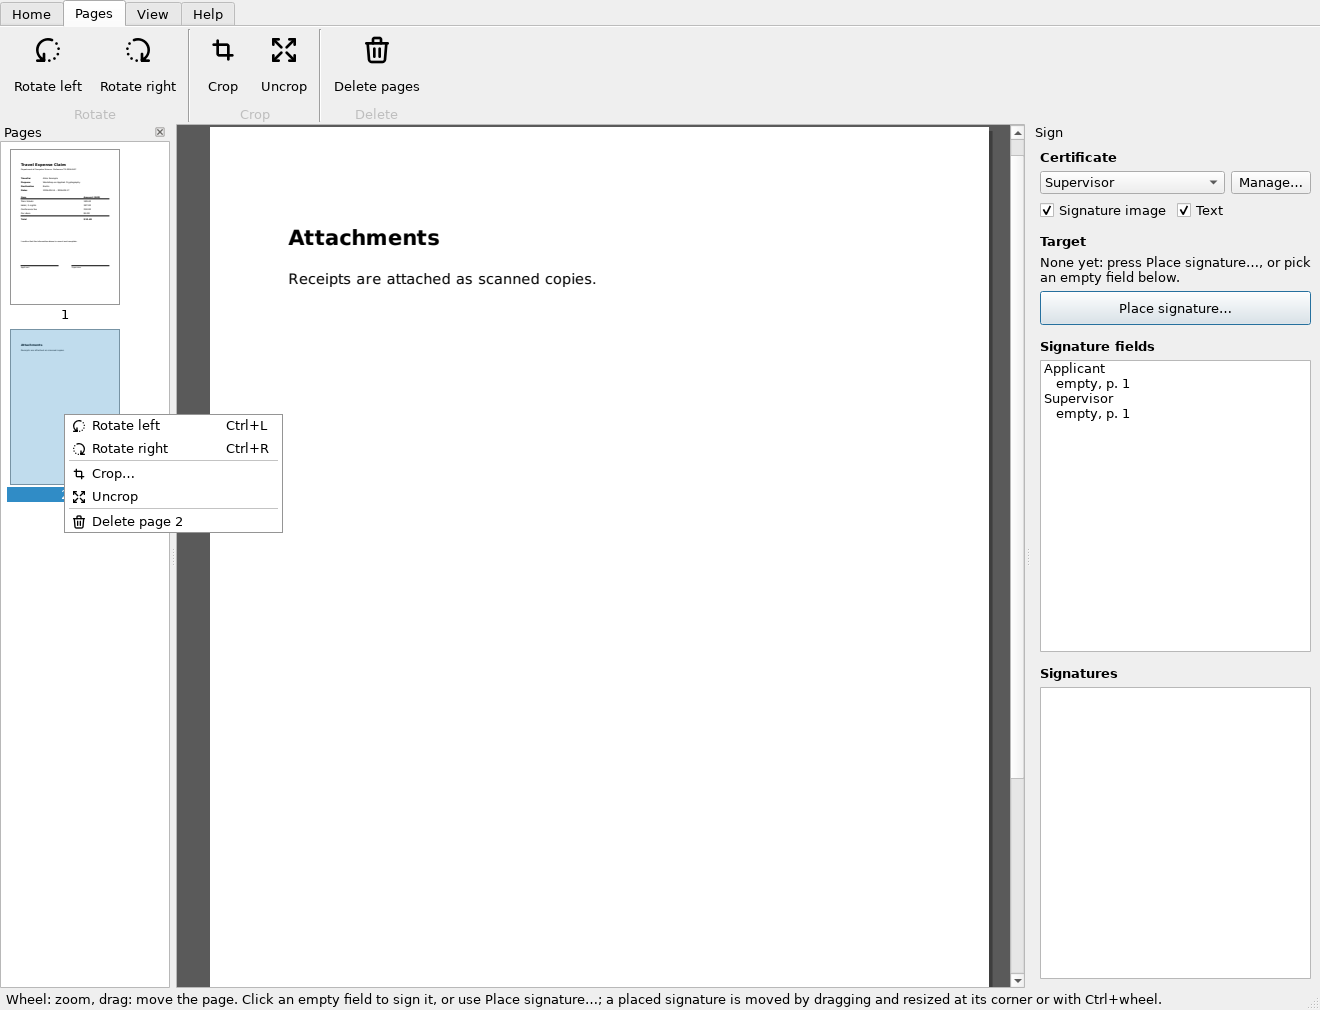
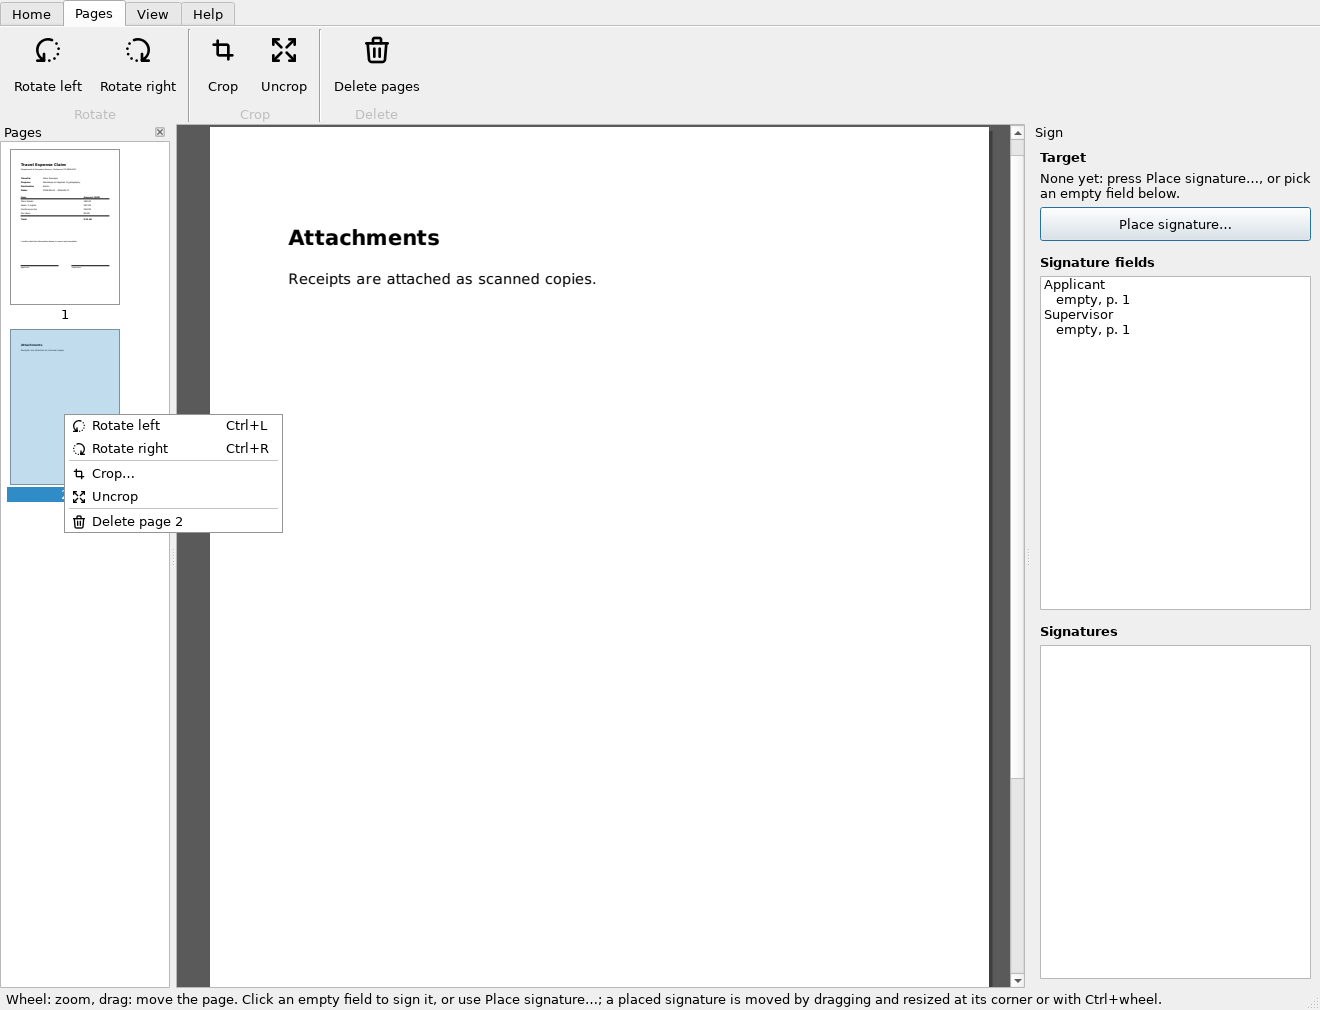
Ribbon: certificate choice and stamp options move from the Sign panel
The Home tab gets Certificate (the profile combo box and Certificates…)
and Stamp (Signature image, Text as toggle buttons) groups; the Sign
panel keeps the target, the Sign button and the lists. Small ribbon
buttons now really stack three per column.

Changed region(s): [[0.7765, 0.1535, 0.9939, 0.4297], [0.7765, 0.6139, 0.8386, 0.6752]]

diff --git a/src/pdfsigner/gui/app.py b/src/pdfsigner/gui/app.py
@@ -21,7 +21,6 @@ from PySide6.QtGui import (
 )
 from PySide6.QtWidgets import (
     QApplication,
-    QCheckBox,
     QComboBox,
     QDockWidget,
     QFileDialog,
@@ -150,7 +149,9 @@ class MainWindow(QMainWindow):
         """Every command the ribbon offers, as actions of the window, so their
         shortcuts work wherever the focus is."""
         def act(text, slot, shortcut=None, icon="", tip="", page=False):
-            a = QAction(text, self, triggered=slot)
+            a = QAction(text, self)
+            if slot is not None:
+                a.triggered.connect(slot)
             if shortcut:
                 a.setShortcut(QKeySequence(shortcut))
             if icon:
@@ -173,7 +174,21 @@ class MainWindow(QMainWindow):
         self.settings_act = act(_("Settings…"), self.settings_dialog, QKeySequence.Preferences,
                                 "settings")
         self.manage_act = act(_("Certificates…"), self.manage_certs, None, "certificate",
-                              _("Manage your certificates"))
+                              _("Manage your certificates (in the settings)"))
+        # what the stamp shows; the certificate is picked in the ribbon's combo box
+        self.cert_combo = QComboBox()
+        self.cert_combo.setToolTip(_("The certificate to sign with"))
+        self.cert_combo.setMinimumContentsLength(14)
+        self.cert_combo.setSizeAdjustPolicy(QComboBox.AdjustToMinimumContentsLengthWithIcon)
+        self.cert_combo.currentIndexChanged.connect(self._cert_changed)
+        self.image_check = act(_("Signature image"), None, None, "photo",
+                               _("Show the certificate's signature image in the stamp"))
+        self.text_check = act(_("Text"), None, None, "typography",
+                              _("Show the signer's name and the date in the stamp"))
+        for a in (self.image_check, self.text_check):
+            a.setCheckable(True)
+            a.setChecked(True)
+            a.toggled.connect(self._cert_changed)
 
         self.prev_act = act(_("Previous"), lambda: self.view.go_to(self.view.page - 1),
                             QKeySequence.MoveToPreviousPage, "chevron-left")
@@ -227,7 +242,12 @@ class MainWindow(QMainWindow):
         g = home.group(_("Sign"))
         g.add(self.sign_act)
         g.add(self.clear_act, large=False)
+        g = home.group(_("Certificate"))
+        g.add_widget(self.cert_combo)
         g.add(self.manage_act, large=False)
+        g = home.group(_("Stamp"))
+        g.add(self.image_check, large=False)
+        g.add(self.text_check, large=False)
         g = home.group(_("Options"))
         g.add(self.settings_act)
 
@@ -319,29 +339,6 @@ class MainWindow(QMainWindow):
         panel = QWidget()
         lay = QVBoxLayout(panel)
 
-        lay.addWidget(QLabel("<b>{}</b>".format(_("Certificate"))))
-        row = QHBoxLayout()
-        self.cert_combo = QComboBox()
-        self.cert_combo.currentIndexChanged.connect(self._cert_changed)
-        row.addWidget(self.cert_combo, 1)
-        manage = QPushButton(_("Manage…"))
-        manage.clicked.connect(self.manage_certs)
-        row.addWidget(manage)
-        lay.addLayout(row)
-
-        row = QHBoxLayout()
-        self.image_check = QCheckBox(_("Signature image"))
-        self.image_check.setChecked(True)
-        self.image_check.toggled.connect(self._cert_changed)
-        self.text_check = QCheckBox(_("Text"))
-        self.text_check.setChecked(True)
-        self.text_check.toggled.connect(self._cert_changed)
-        row.addWidget(self.image_check)
-        row.addWidget(self.text_check)
-        row.addStretch()
-        lay.addLayout(row)
-
-        lay.addSpacing(8)
         lay.addWidget(QLabel("<b>{}</b>".format(_("Target"))))
         self.target_label = QLabel()
         self.target_label.setWordWrap(True)

diff --git a/tests/test_gui.py b/tests/test_gui.py
@@ -1504,6 +1504,10 @@ def test_ribbon_tabs_and_about(window, monkeypatch):
     assert [rb.tabText(i) for i in range(rb.count())] == ["Home", "Pages", "View", "Help"]
     home = [b.defaultAction() for b in rb.tab_page(0).findChildren(QtWidgets.QToolButton)]
     assert window.open_act in home and window.sign_act in home
+    # everything the sign panel had as controls is in the ribbon now
+    assert window.image_check in home and window.text_check in home
+    assert window.manage_act in home
+    assert rb.tab_page(0).isAncestorOf(window.cert_combo)
     assert not window.save_act.isEnabled()  # no document yet
 
     shown = []

diff --git a/src/pdfsigner/gui/ribbon.py b/src/pdfsigner/gui/ribbon.py
@@ -112,7 +112,7 @@ class RibbonGroup(QFrame):
         return widget
 
     def _small(self, widget: QWidget) -> None:
-        if self._column is None or self._column.count() >= 3:
+        if self._column is None or self._column.count() > 3:  # 3 and the stretch
             self._column = QVBoxLayout()
             self._column.setSpacing(0)
             self._column.addStretch()

diff --git a/docs/gui.md b/docs/gui.md
@@ -20,8 +20,9 @@ guide show the English version.
 
 * **Ribbon** (top), in four tabs:
   * *Home:* **Open…** (`Ctrl+O`), **Save**, **Save as…**, **Undo**; **Place
-    signature… / Sign…** (`Ctrl+S`), **Clear placement** (`Esc`),
-    **Certificates…**; **Settings…**.
+    signature… / Sign…** (`Ctrl+S`), the certificate to sign with, the
+    stamp options **Signature image** and **Text**, **Clear placement**
+    (`Esc`), **Certificates…**; **Settings…**.
   * *Pages:* rotate, crop and delete pages (see [Page tools](#page-tools)).
   * *View:* move between pages (`PgUp`/`PgDown`, or type the page number),
     zoom (`Ctrl +`/`Ctrl -`, *Fit* = fit width), show or hide the *Pages*
@@ -38,15 +39,14 @@ guide show the English version.
 * **Pages panel** (left): thumbnails. Click one to go there; Ctrl- or
   Shift-click to select several pages for the page tools; drag pages to
   reorder them.
-* **Sign panel** (right): certificate, appearance options, the current
-  target, the **Place signature…** / **Sign…** button, and a list of all
-  signature fields.
+* **Sign panel** (right): the current target, the **Place signature…** /
+  **Sign…** button, and lists of the signature fields and of the signatures.
 
 ## Placing a new signature
 
 ![Placing a signature freely](images/gui-place.png)
 
-1. Pick a certificate.
+1. Pick a certificate in the ribbon (*Home* tab, *Sign* group).
 2. Press **Place signature…** (`Ctrl+S`), then **click** where the signature
    should go. A preview of the signature image appears centred on the click,
    and the page is back to zooming and moving. `Esc` cancels instead.
@@ -65,7 +65,7 @@ page while you browse other pages.
 
 Click an empty field on the page: it turns solid blue and becomes the
 target. With several certificates configured, pdfsigner asks which one to
-sign with (the one selected in the panel is preselected; with only one,
+sign with (the one selected in the ribbon is preselected; with only one,
 that is used without asking), then signing starts (see
 [Signing](#signing)). Cancelling the question keeps the field selected.
 To change the appearance options first, pick the field in the list on the
@@ -98,8 +98,8 @@ fields doesn't.
 Documents certified as "no changes allowed" can't be signed again; the status
 bar points this out when you open one.
 
-The *Signature image* and *Text* checkboxes switch the stamp to image only or
-text only for the next signature.
+The *Signature image* and *Text* buttons in the ribbon switch the stamp to
+image only or text only for the next signature.
 
 ## Checking signatures
 
